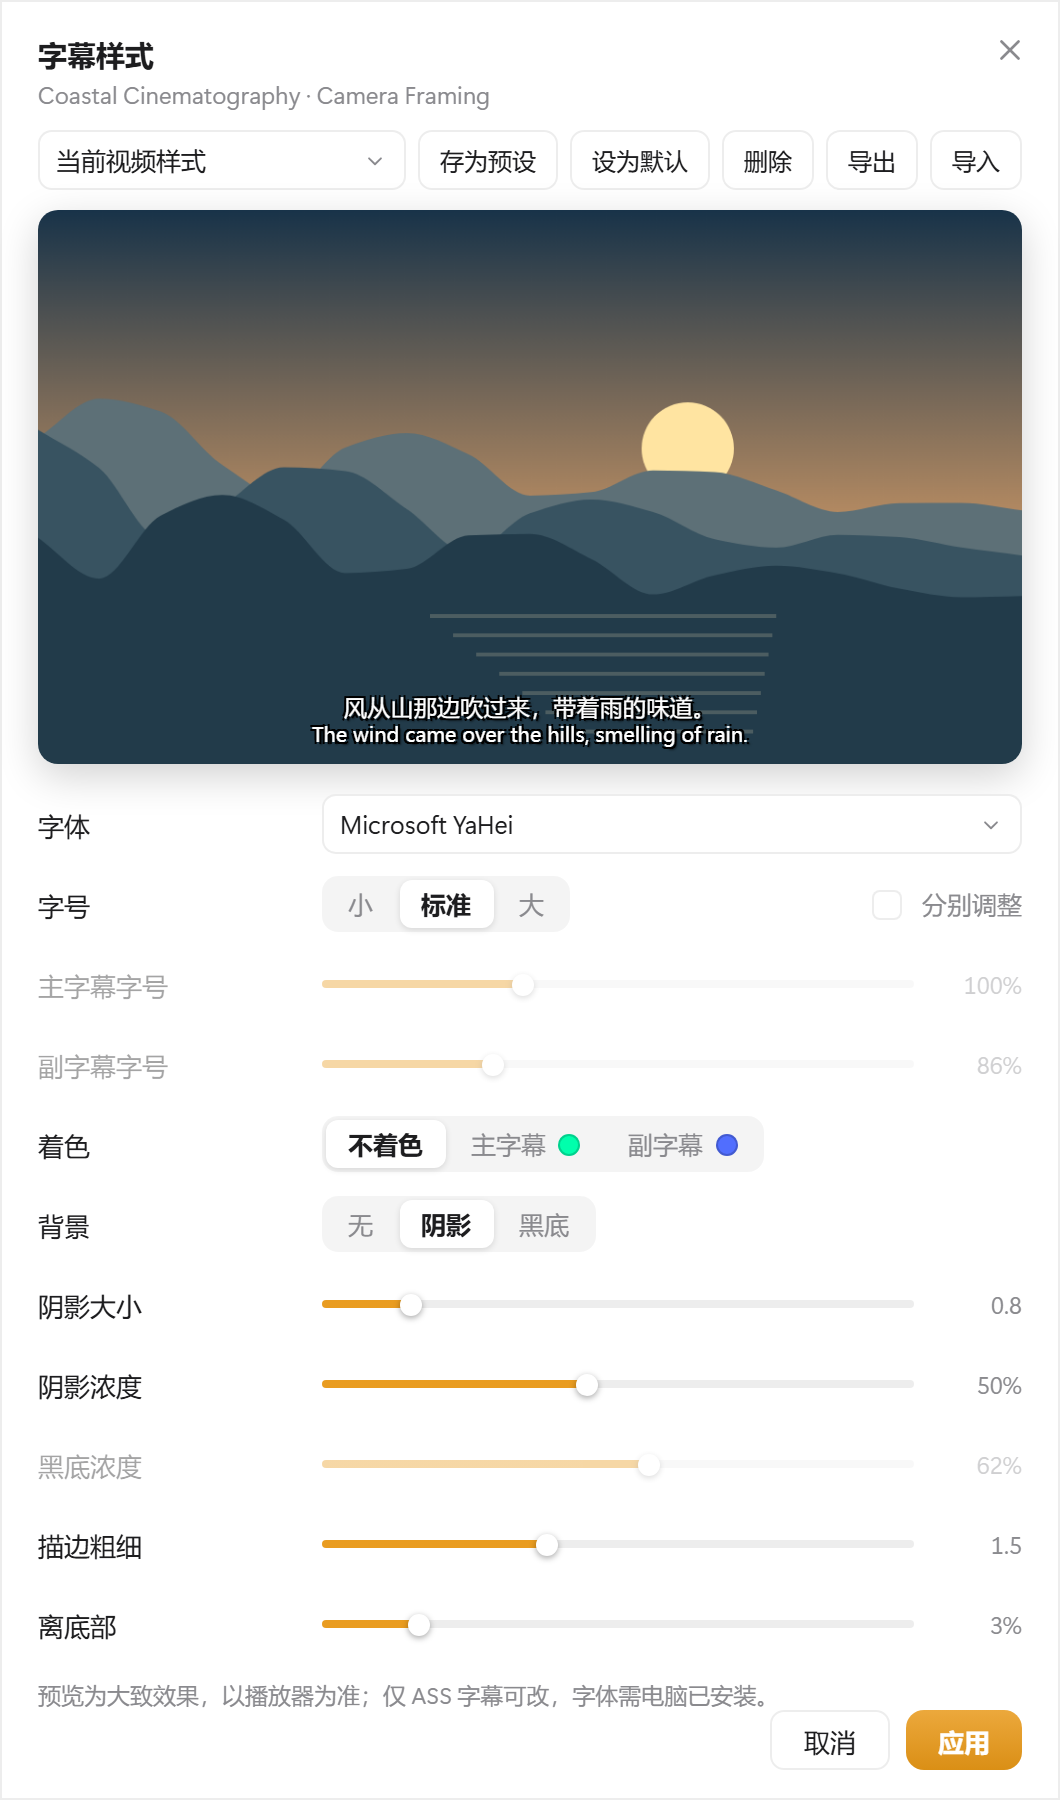
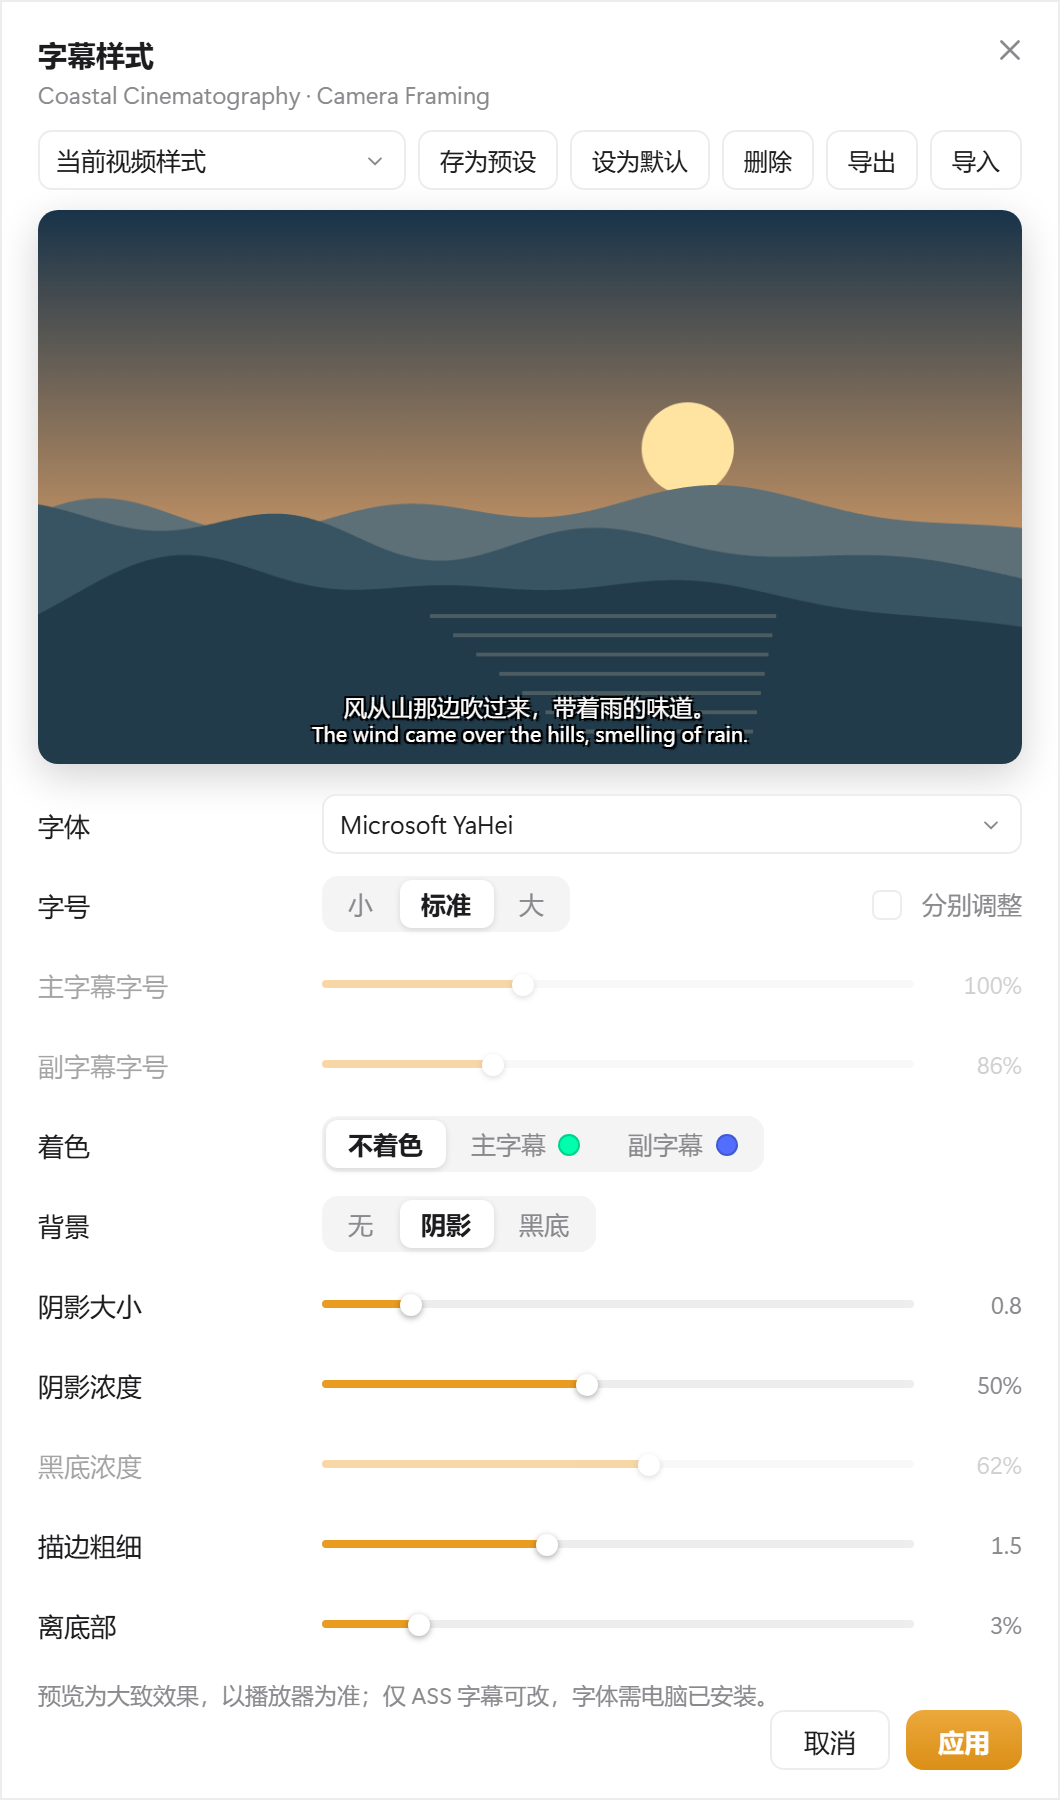
准备 Windows 反馈入口并重画字幕预览山脊

Changed region(s): [[0.0311, 0.2178, 0.9651, 0.3422]]

diff --git a/README.md b/README.md
@@ -96,4 +96,4 @@
 
 Windows 源码在 `windows/`。桌面程序使用 **Rust / Tauri / WebView2**，随包扩展使用 **JavaScript**。下载内核使用 Gopeed，视频来源使用 yt-dlp 等工具。
 
-[Windows 源码与构建](windows/README.md) · [已合并的 Windows PR](https://github.com/chenmozhe008/shandian-download/pull/2) · [GPL-3.0 许可证](LICENSE)
+[Windows 问题反馈](https://github.com/cgeek-dev/shandian-download/issues/new/choose) · [Windows 源码与构建](windows/README.md) · [已合并的 Windows PR](https://github.com/chenmozhe008/shandian-download/pull/2) · [GPL-3.0 许可证](LICENSE)
